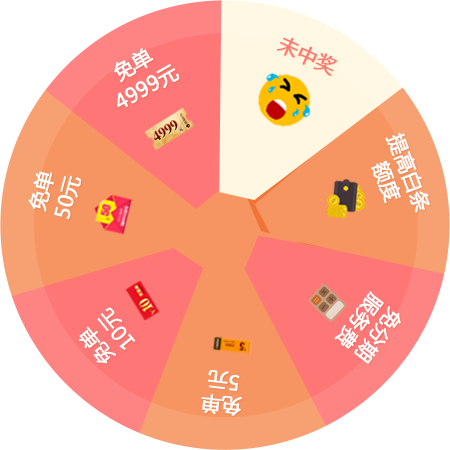
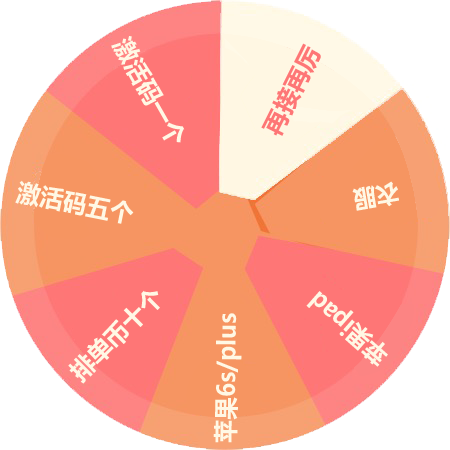
tata

diff --git a/User/Home/View/default/Info/choujiang.html b/User/Home/View/default/Info/choujiang.html
@@ -89,16 +89,16 @@
                         case 1:
                             //var angle = [88, 137, 185, 235, 287];
 //                            rotateFn(1, 26, '免单4999元');
-                            rotateFn(1, 26, '您抽中了激活码，请到激活码管理里面查看。');
+                            rotateFn(1, 26, '您抽中了激活码1个，请到激活码管理里面查看。');
                             break;
                         case 2:
                             //var angle = [137, 185, 235, 287];
-                            rotateFn(2, 88, '您抽中了激活码，请到激活码管理里面查看。');
+                            rotateFn(2, 88, '您抽中了激活码5个，请到激活码管理里面查看。');
                             break;
                         case 3:
                             //var angle = [137, 185, 235, 287];
 //                            rotateFn(3, 137, '免单10元');
-                            rotateFn(3, 137, '您抽中了排单币，请到排单币管理里面查看。');
+                            rotateFn(3, 137, '您抽中了排单币10个，请到排单币管理里面查看。');
                             break;
                         case 4:
                             //var angle = [185, 235, 287];
@@ -108,17 +108,15 @@
                         case 5:
                             //var angle = [185, 235, 287];
 //                            rotateFn(5, 185, '免单5元');
-                            rotateFn(5, 185, '您抽中了苹果ipad，随后有工作人员联系您发货。');
+                            rotateFn(5, 235, '您抽中了苹果ipad，随后有工作人员联系您发货。');
                             break;
                         case 7:
                             //var angle = [235, 287];
 //                            rotateFn(6, 235, '免分期服务费');
-                            rotateFn(6, 235, '您抽中了衣服，随后有工作人员联系您发货。');
+                            rotateFn(6, 287, '您抽中了衣服，随后有工作人员联系您发货。');
                             break;
-                        case 8:
-                            //var angle = [287];
-//                            rotateFn(7, 287, '提高白条额度');
-                            rotateFn(7, 287, '您抽中了衣服，随后有工作人员联系您发货。');
+                        default:
+                            rotateFn(0, 337, '未中奖');
                             break;
                     }
                 }
